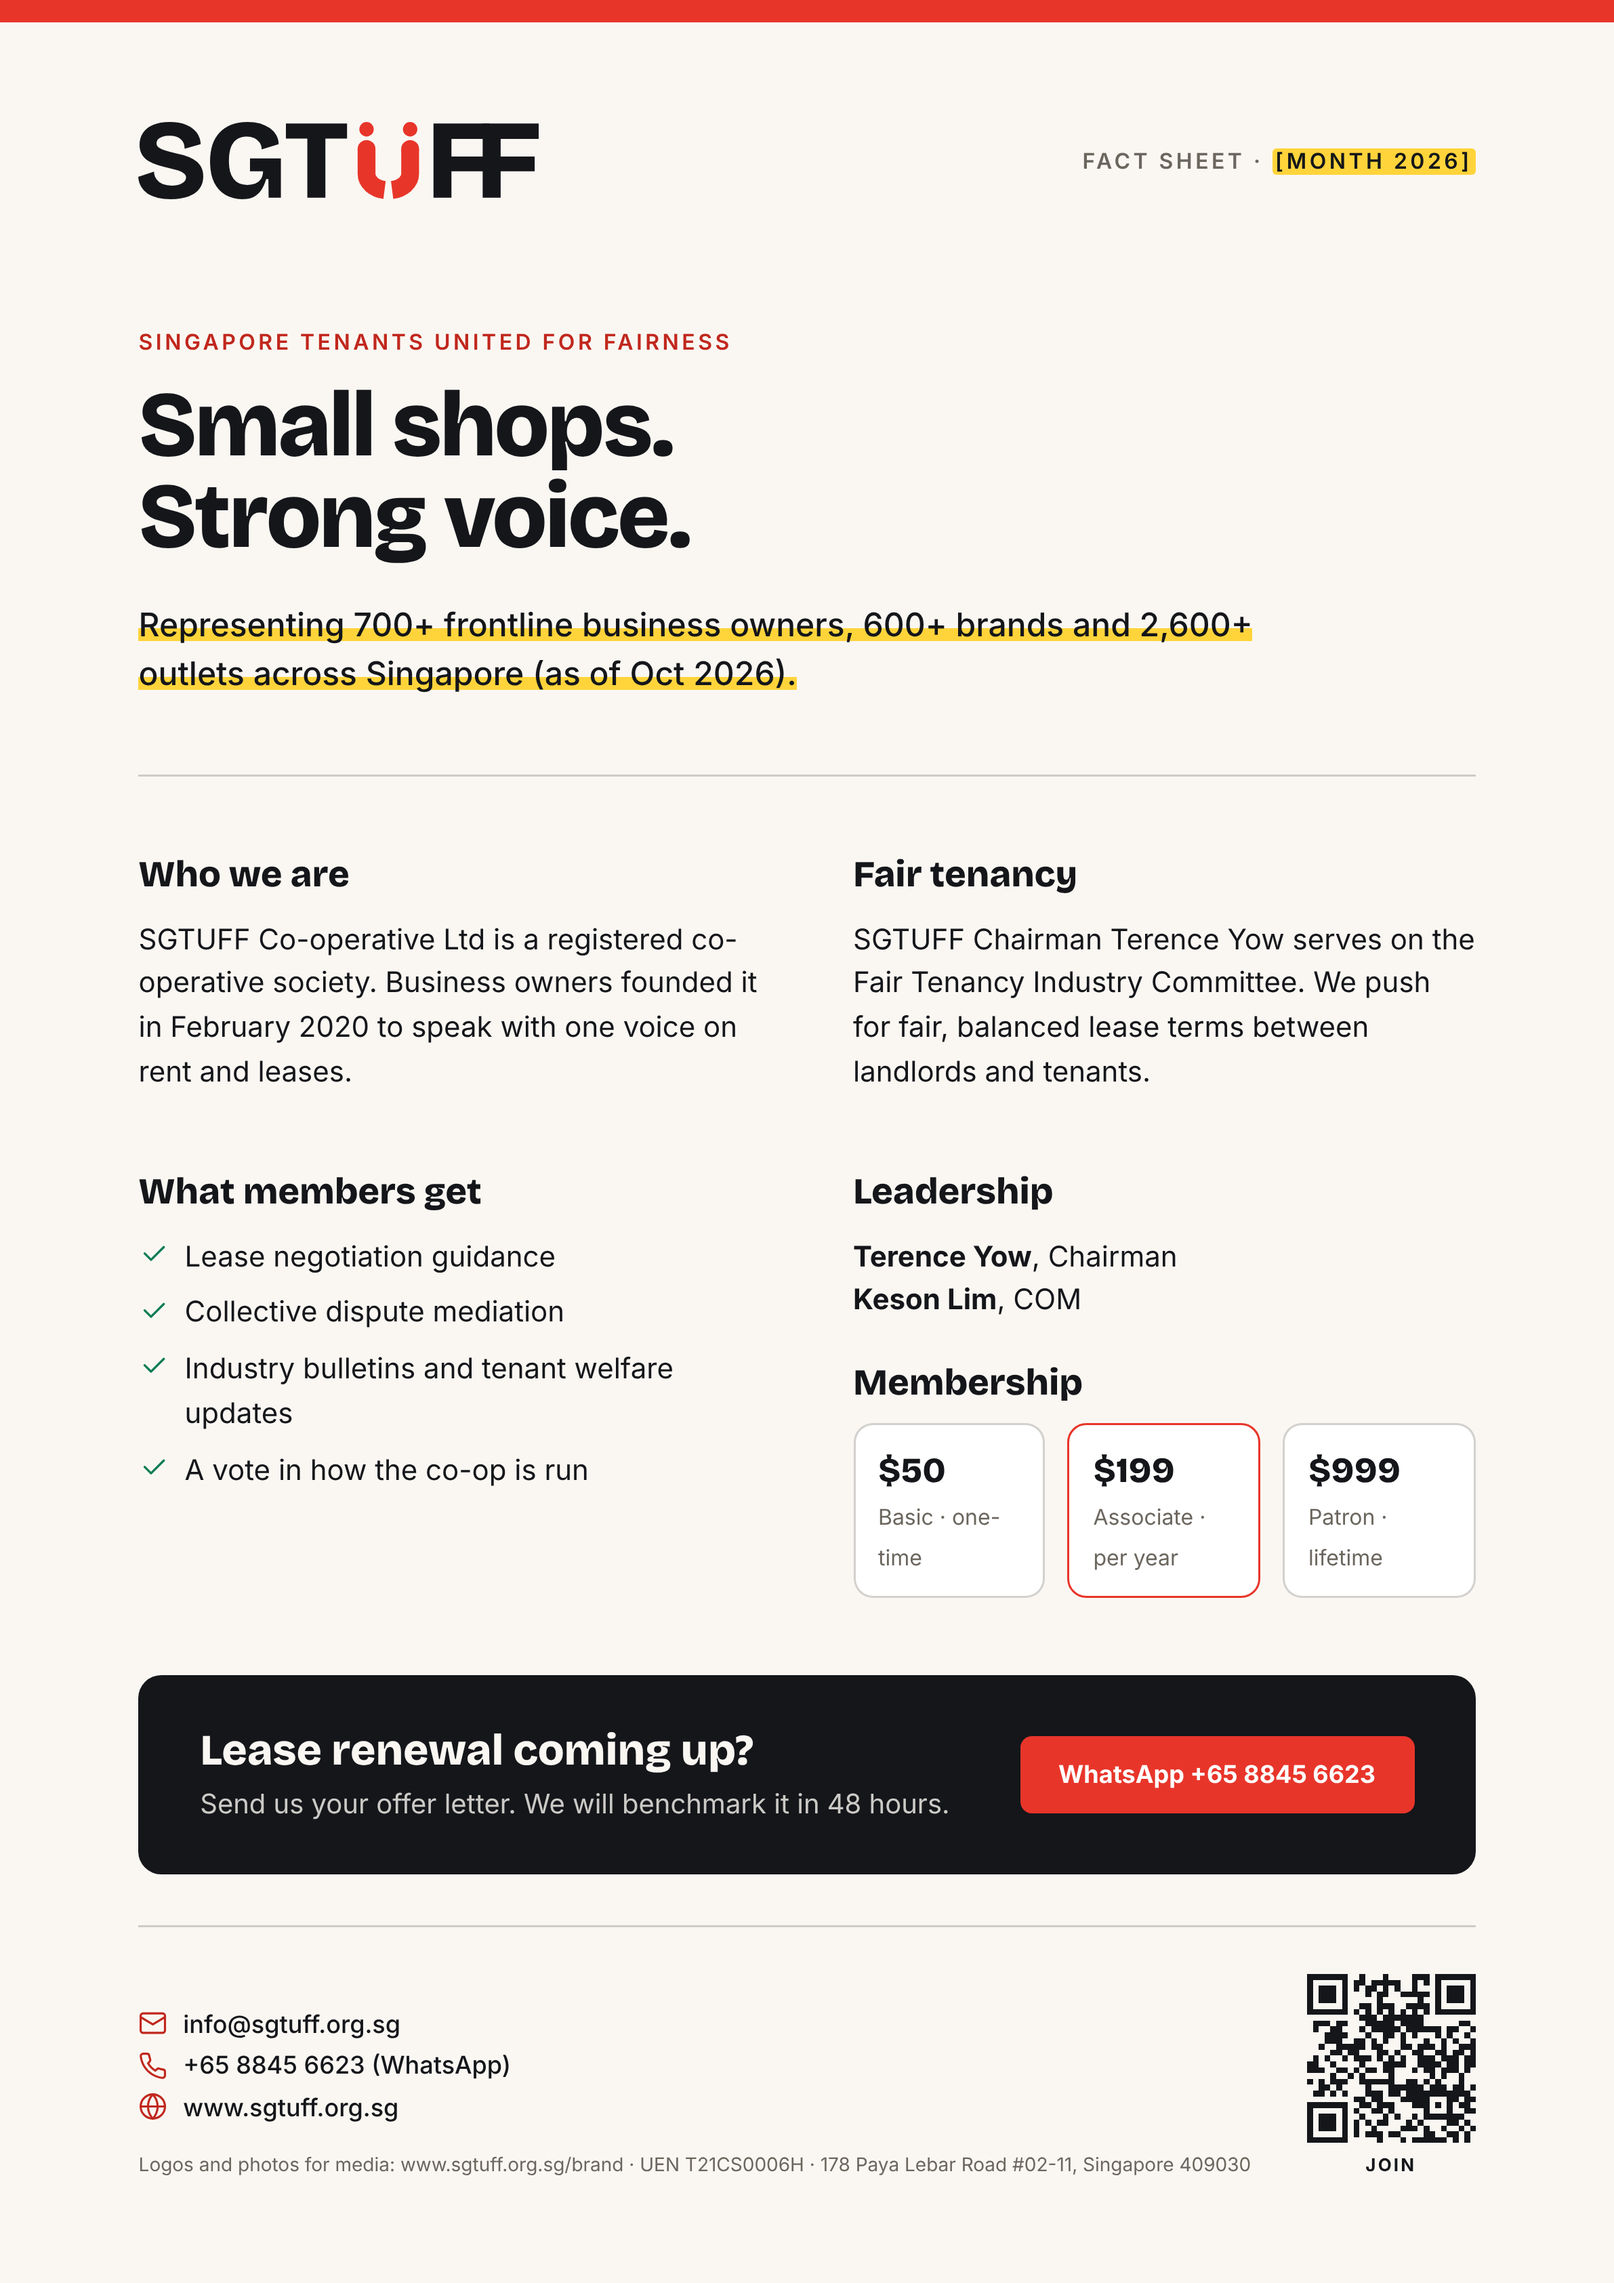
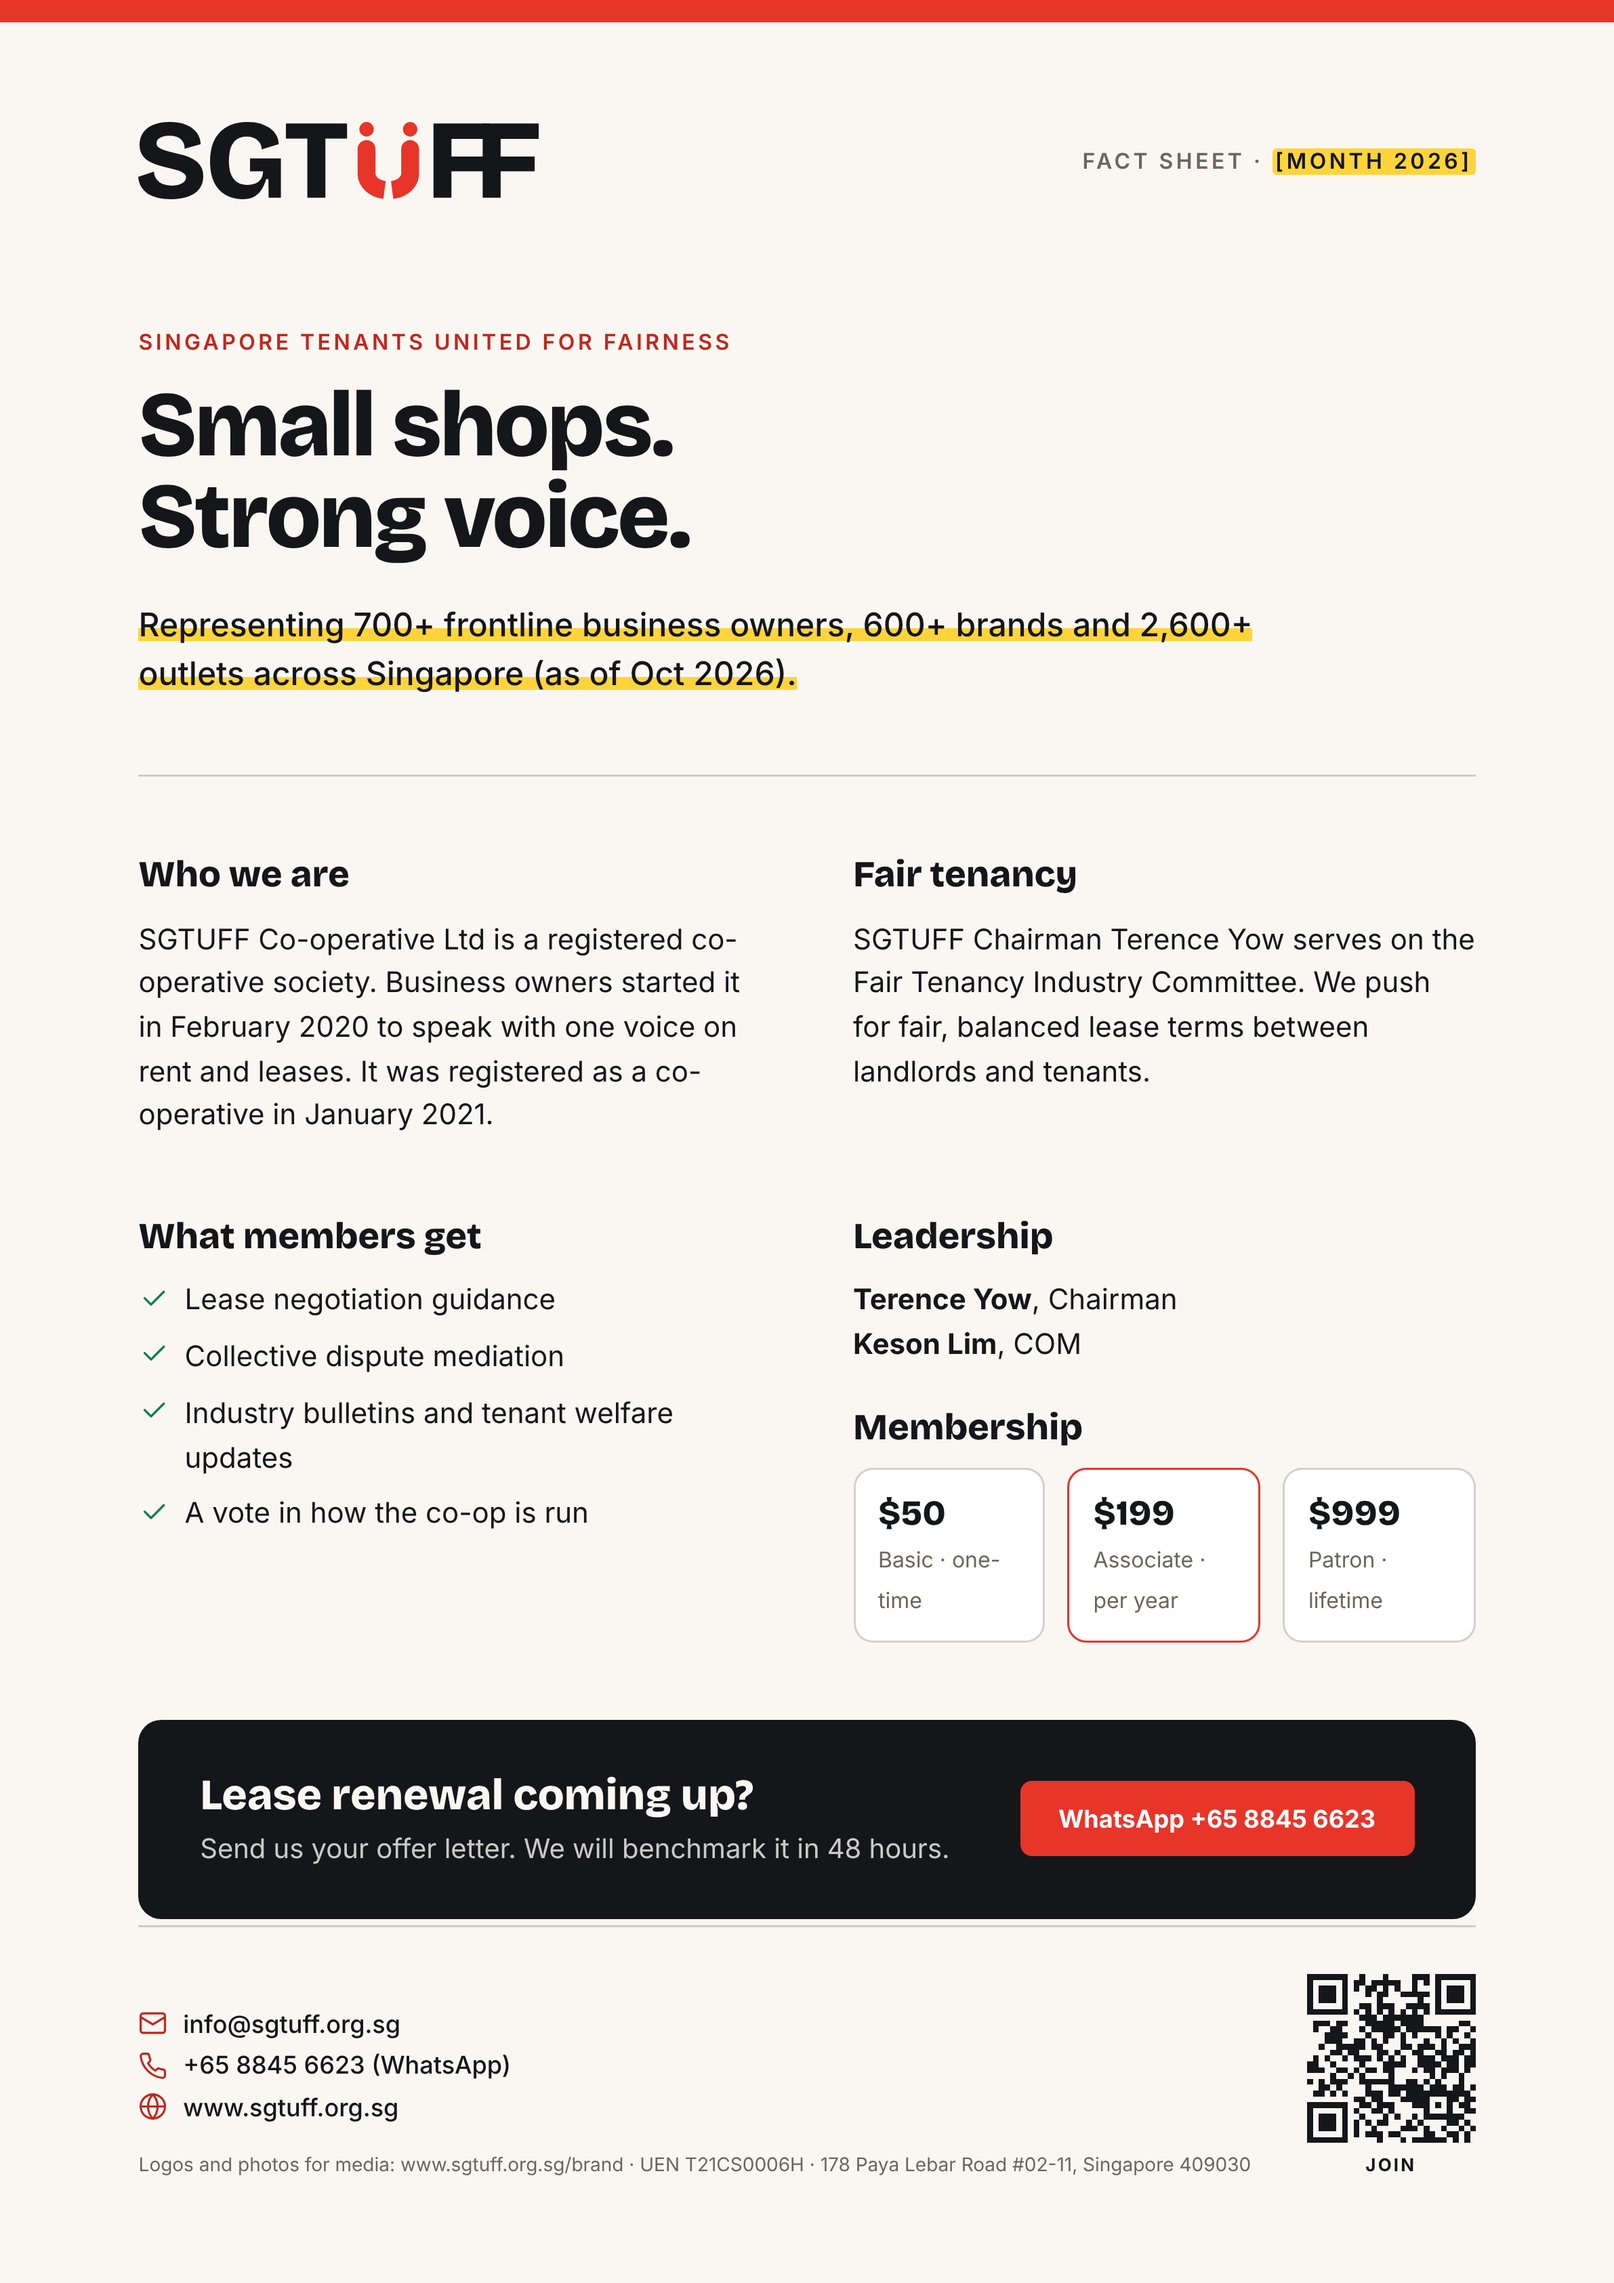
Keep WhatsApp mobile as the contact line, move tracker to tracker.sgtuff.org.sg, add 2021 co-op registration to formal copy
Claude-Session: https://claude.ai/code/session_01TPaa9MPFXYTdpN76XjCpvL

Changed region(s): [[0.0621, 0.4987, 0.932, 0.8415], [0.0932, 0.4675, 0.4039, 0.6545], [0.4039, 0.4052, 0.466, 0.4363]]

diff --git a/collateral/print/fact-sheet.html b/collateral/print/fact-sheet.html
@@ -55,7 +55,7 @@ body{background:#EFEAE2;font-family:var(--font-text);color:var(--ink);padding:32
 <div class="hd"><img class="wm" src="../../assets/brand/logo/sgtuff-wordmark-primary.svg" alt="SGTUFF"><span class="k">Fact sheet · <span class="ph">[Month 2026]</span></span></div>
 <div class="hero"><p class="k">Singapore Tenants United for Fairness</p><h1>Small shops.<br>Strong voice.</h1><p><span>Representing 700+ frontline business owners, 600+ brands and 2,600+ outlets across Singapore (as of Oct 2026).</span></p></div>
 <div class="grid">
-<div><h3>Who we are</h3><p>SGTUFF Co-operative Ltd is a registered co-operative society. Business owners founded it in February 2020 to speak with one voice on rent and leases.</p></div>
+<div><h3>Who we are</h3><p>SGTUFF Co-operative Ltd is a registered co-operative society. Business owners started it in February 2020 to speak with one voice on rent and leases. It was registered as a co-operative in January 2021.</p></div>
 <div><h3>Fair tenancy</h3><p>SGTUFF Chairman Terence Yow serves on the Fair Tenancy Industry Committee. We push for fair, balanced lease terms between landlords and tenants.</p></div>
 <div><h3>What members get</h3><ul><li><svg class="ic" viewBox="0 0 24 24" fill="none" stroke="currentColor" stroke-width="1.75" stroke-linecap="round" stroke-linejoin="round" aria-hidden="true"><path d="m5 12 5 5L20 7"/></svg><span>Lease negotiation guidance</span></li><li><svg class="ic" viewBox="0 0 24 24" fill="none" stroke="currentColor" stroke-width="1.75" stroke-linecap="round" stroke-linejoin="round" aria-hidden="true"><path d="m5 12 5 5L20 7"/></svg><span>Collective dispute mediation</span></li><li><svg class="ic" viewBox="0 0 24 24" fill="none" stroke="currentColor" stroke-width="1.75" stroke-linecap="round" stroke-linejoin="round" aria-hidden="true"><path d="m5 12 5 5L20 7"/></svg><span>Industry bulletins and tenant welfare updates</span></li><li><svg class="ic" viewBox="0 0 24 24" fill="none" stroke="currentColor" stroke-width="1.75" stroke-linecap="round" stroke-linejoin="round" aria-hidden="true"><path d="m5 12 5 5L20 7"/></svg><span>A vote in how the co-op is run</span></li></ul></div>
 <div><h3>Leadership</h3><p><b>Terence Yow</b>, Chairman<br><b>Keson Lim</b>, COM</p><h3 style="margin-top:5mm">Membership</h3>

diff --git a/collateral/letterhead.html b/collateral/letterhead.html
@@ -57,7 +57,7 @@ footer .tag{font:800 10pt var(--font-display);color:var(--tuff-red-ink);white-sp
     <div class="sign"><div class="sig-line"></div><p class="name">Terence Yow</p><p class="role">Chairman</p></div>
   </div>
   <footer>
-    <div><strong>SGTUFF Co-operative Ltd</strong> · Singapore Tenants United for Fairness<br>A registered co-operative society · UEN T21CS0006H</div>
+    <div><strong>SGTUFF Co-operative Ltd</strong> · Singapore Tenants United for Fairness<br>A registered co-operative society (since 2021) · UEN T21CS0006H</div>
     <div class="tag">Tough together.</div>
   </footer>
 </main></body></html>

diff --git a/CLAUDE.md b/CLAUDE.md
@@ -8,5 +8,7 @@ This repo is the **source of truth for the SGTUFF brand** (v2, locked 23 Oct 202
 - `legacy-v1/` is archived. Do not copy its colours (navy, gold, crimson), fonts (Cinzel, Plus Jakarta Sans) or claims ("statutory", "MCCY-compliant", "official partnerships").
 - Factual claims: Terence Yow is Chairman and holds the Fair Tenancy Industry Committee appointment. Describe SGTUFF as a registered co-operative society, not a statutory body.
 - Legal details: SGTUFF Co-operative Limited, UEN T21CS0006H, registered address 178 Paya Lebar Road #02-11, Singapore 409030. Registered 7 Jan 2021 (Registry of Co-operative Societies list). Domain: sgtuff.org.sg.
+- Phone on all materials: +65 8845 6623 (WhatsApp). Do not use the registry office line.
+- Dates: say "owner-run since February 2020" in everyday copy; formal documents also say "registered as a co-operative in 2021".
 - Member count: use only this baseline, verbatim: "Representing 700+ frontline business owners, 600+ brands and 2,600+ outlets across Singapore (as of Oct 2026)." Always show the "as of" date. Do not use the older 1,000+ figure.
 - Voice: plain, short sentences; numbers over adjectives; firm, never shrill.

diff --git a/BRAND.md b/BRAND.md
@@ -119,7 +119,7 @@ SGTUFF is the owner-run co-op that gives Singapore's independent shops and eater
 - **Purpose:** keep Singapore's neighbourhood shops and eateries alive and thriving.
 - **Positioning:** a movement with tools. Grassroots in who runs it, modern in how it works.
 - **Member baseline (use verbatim):** "Representing 700+ frontline business owners, 600+ brands and 2,600+ outlets across Singapore (as of Oct 2026)."
-- **Proof points:** owner-run since February 2020; a seat at the fair-tenancy table; shared services and lease help that save members real money.
+- **Proof points:** owner-run since February 2020 (registered as a co-operative on 7 Jan 2021; say so on formal documents); a seat at the fair-tenancy table; shared services and lease help that save members real money.
 - **What we are not:** a ministry, a law firm or a protest group.
 
 ### 3.2 Audiences
